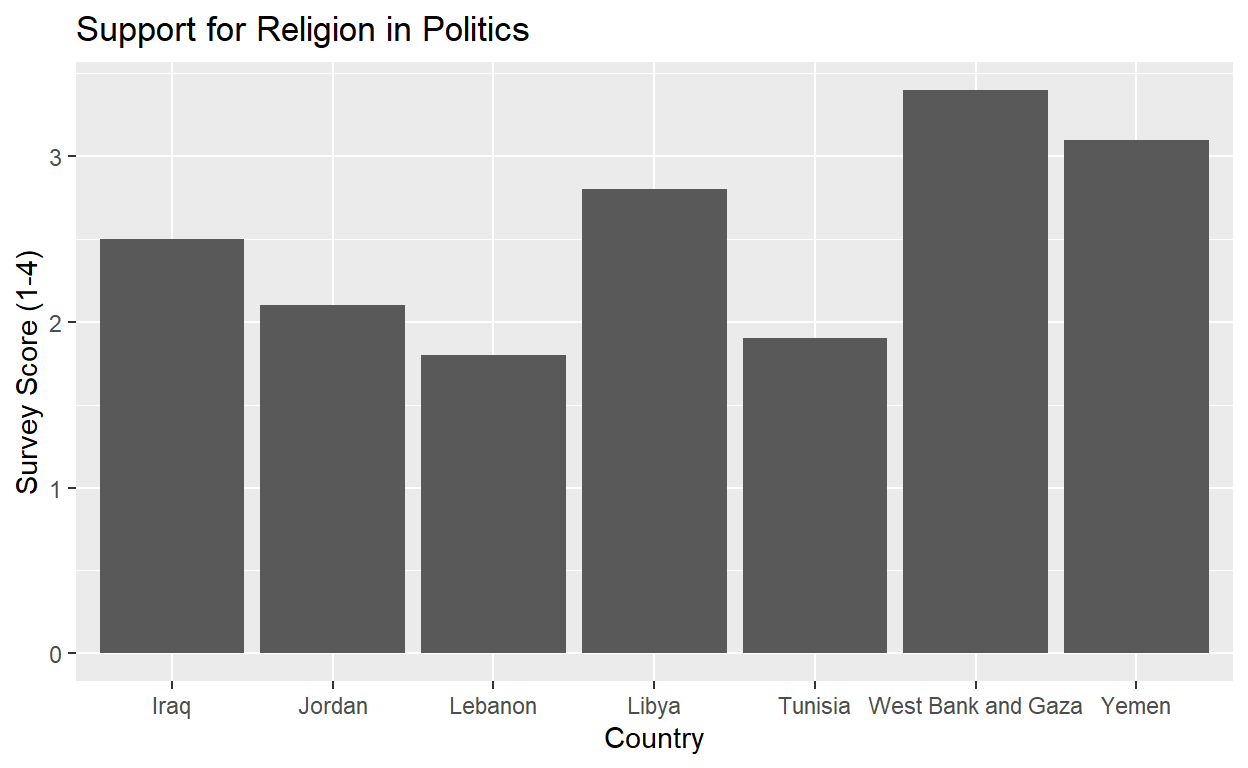
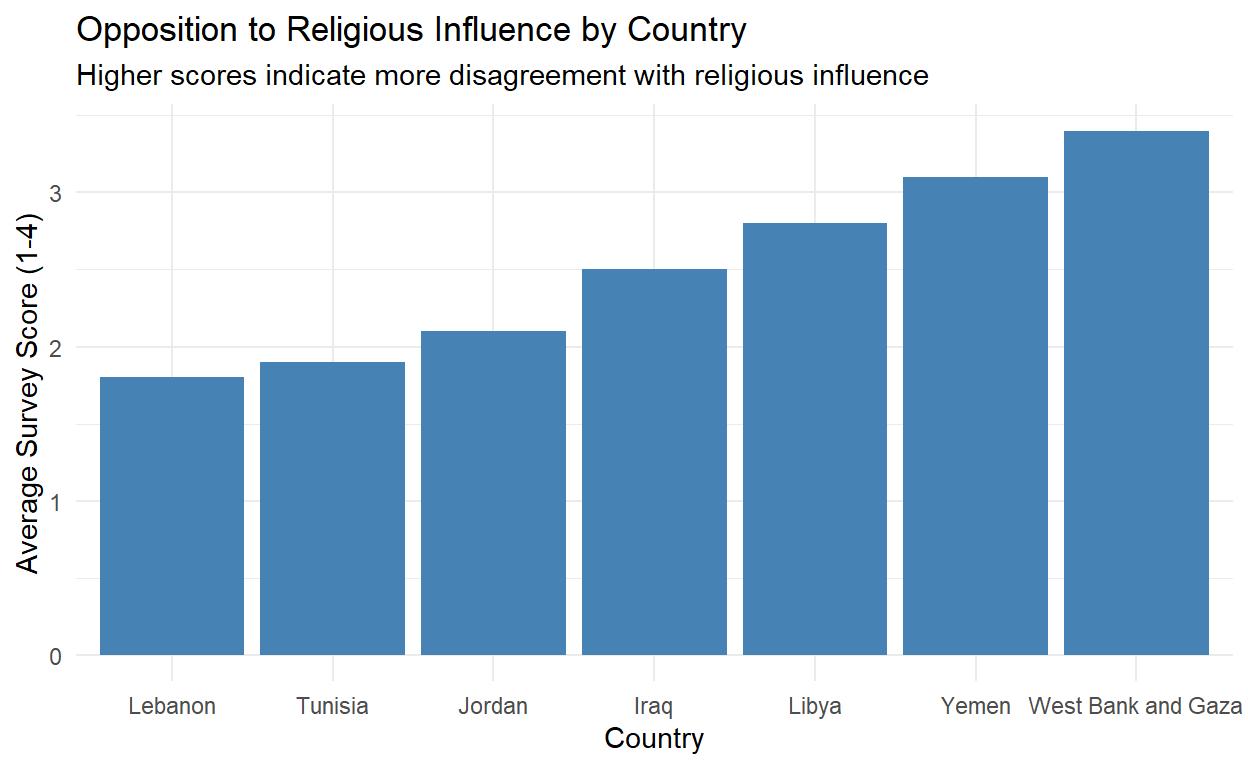
Final Project Update

diff --git a/index.html b/index.html
@@ -116,7 +116,7 @@ code span.wa { color: #5e5e5e; font-style: italic; } /* Warning */
   <!--/radix_placeholder_rmarkdown_metadata-->
   
   <script type="text/json" id="radix-resource-manifest">
-  {"type":"character","attributes":{},"value":["index_files/anchor-4.2.2/anchor.min.js","index_files/bowser-1.9.3/bowser.min.js","index_files/distill-2.2.21/template.v2.js","index_files/figure-html5/unnamed-chunk-6-1.png","index_files/figure-html5/unnamed-chunk-7-1.png","index_files/header-attrs-2.17/header-attrs.js","index_files/header-attrs-2.30/header-attrs.js","index_files/jquery-3.6.0/jquery-3.6.0.js","index_files/jquery-3.6.0/jquery-3.6.0.min.js","index_files/jquery-3.6.0/jquery-3.6.0.min.map","index_files/popper-2.6.0/popper.min.js","index_files/tippy-6.2.7/tippy-bundle.umd.min.js","index_files/tippy-6.2.7/tippy-light-border.css","index_files/tippy-6.2.7/tippy.css","index_files/tippy-6.2.7/tippy.umd.min.js","index_files/webcomponents-2.0.0/webcomponents.js"]}
+  {"type":"character","attributes":{},"value":["index_files/anchor-4.2.2/anchor.min.js","index_files/bowser-1.9.3/bowser.min.js","index_files/distill-2.2.21/template.v2.js","index_files/figure-html5/unnamed-chunk-6-1.png","index_files/figure-html5/unnamed-chunk-7-1.png","index_files/figure-html5/unnamed-chunk-8-1.png","index_files/header-attrs-2.17/header-attrs.js","index_files/header-attrs-2.30/header-attrs.js","index_files/jquery-3.6.0/jquery-3.6.0.js","index_files/jquery-3.6.0/jquery-3.6.0.min.js","index_files/jquery-3.6.0/jquery-3.6.0.min.map","index_files/popper-2.6.0/popper.min.js","index_files/tippy-6.2.7/tippy-bundle.umd.min.js","index_files/tippy-6.2.7/tippy-light-border.css","index_files/tippy-6.2.7/tippy.css","index_files/tippy-6.2.7/tippy.umd.min.js","index_files/webcomponents-2.0.0/webcomponents.js"]}
   </script>
   <!--radix_placeholder_navigation_in_header-->
   <!--/radix_placeholder_navigation_in_header-->
@@ -1544,14 +1544,12 @@ code span.wa { color: #5e5e5e; font-style: italic; } /* Warning */
 </div>
 
 <div class="d-article">
-<h2 id="project-thoughts">Project thoughts</h2>
-<p>Research Question: Does active conflict in the Middle East and Northern Africa increase the public’s desire for a more conservative and religiously influenced government, or a more liberal government with less religious involvement?</p>
-<p>Hypothesis: I believe that individuals living in countries with higher levels of conflict will desire a more conservative government. I believe that they will want a strong executive command, as well as a larger role for religion in the system. There is the belief that when people are faced with conflict, they tend to prioritize social order and stability over certain liberties. In addition, when faced with conflict, conservatism and traditional authority are often viewed as the most effective ways of government.</p>
-<p>Variables:
-Independent Variable: The independent variable will be conflict intensity. This will be measured by the total fatalities per country recorded in the ACLED dataset for 2023-2024. This will provide the necessary variation between stable countries versus high-conflict countries.
-Dependent variable: The dependent variable will be the desire for a certain political ideology. I will measure this using the Arab Barometer Wave VIII dataset. I will use different variables to determine if there is a relationship between religious and authoritarian conservatism.</p>
-<p>Expected Patterns: I think that there will be a specific positive correlation. However, my hypothesis would be disproved if the data shows no relationship or a negative correlation. For example, if people in war-torn regions want a more liberal government than my hypothesis could be disproven.</p>
-<p>Code for milestone 3</p>
+<h3 id="introduction">Introduction</h3>
+<p>Throughout history, there has always been a plethora of conflict in the Middle East. In recent times, there are no exceptions. While I have followed recent activities closely, I have always wondered how these wars make the citizens think. So that’s how I came up with my research question: Does high-intensity conflict increase the public’s desire for religiously influenced government, or does it push them toward more secular, liberal governance? I originally thought that high-conflict zones would lead their citizens to desire a more religious and conservative influence in government. This is an important question because it helps society understand whether conflict leads to more religious conservatism in government.</p>
+<h3 id="data-section">Data Section</h3>
+<p>This project uses a cross-sectional research design to analyze the relationship between conflict and political preferences across seven different countries in the Middle East and North African region (MENA). I merged the data from two primary sources: the Armed Conflict Location &amp; Event Data Project (ACLED) and the Arab Barometer (Wave VIII) for public opinion data.</p>
+<p>The independent variable in my project is conflict intensity. This is measured by the total fatalities per country recorded in the ACLED dataset. The total fatalities will provide the necessary variation to compare stable countries versus countries that are in high-conflict environments. The dependent variable in my project is the political ideology. This measures public opinion towards the role of religion of government. I want to say that most countries where there is a high level of religion in government tend to be more conservative. The data was measured in a public opinion survey, and taken on a scale of one to four. One is “Strongly Agree” for religion in government, and four is “Strongly Disagree”.</p>
+<p>I believe that there will be a positive correlation between conflict and a desire for a more conservative and religiously influenced government. However, due to the way that the survey was conducted, my hypothesis will be proven if there is a negative correlation. A negative correlation will be if a higher number of fatalities leads to a lower survey score.</p>
 <div class="layout-chunk" data-layout="l-body">
 <div class="sourceCode">
 <pre class="sourceCode r"><code class="sourceCode r"><span><span class='kw'><a href='https://rdrr.io/r/base/library.html'>library</a></span><span class='op'>(</span><span class='va'><a href='https://tidyverse.tidyverse.org'>tidyverse</a></span><span class='op'>)</span></span></code></pre>
@@ -1641,66 +1639,73 @@ Dependent variable: The dependent variable will be the desire for a certain poli
 <div class="layout-chunk" data-layout="l-body">
 <div class="sourceCode">
 <pre class="sourceCode r"><code class="sourceCode r"><span><span class='kw'><a href='https://rdrr.io/r/base/library.html'>library</a></span><span class='op'>(</span><span class='va'><a href='https://yihui.org/knitr/'>knitr</a></span><span class='op'>)</span></span>
-<span></span>
-<span></span>
-<span><span class='fu'><a href='https://ggplot2.tidyverse.org/reference/ggplot.html'>ggplot</a></span><span class='op'>(</span><span class='va'>merged_data</span>, <span class='fu'><a href='https://ggplot2.tidyverse.org/reference/aes.html'>aes</a></span><span class='op'>(</span>x <span class='op'>=</span> <span class='va'>country</span>, y <span class='op'>=</span> <span class='va'>original_score</span><span class='op'>)</span><span class='op'>)</span> <span class='op'>+</span></span>
-<span>  <span class='fu'><a href='https://ggplot2.tidyverse.org/reference/geom_bar.html'>geom_col</a></span><span class='op'>(</span><span class='op'>)</span> <span class='op'>+</span></span>
+<span><span class='fu'><a href='https://ggplot2.tidyverse.org/reference/ggplot.html'>ggplot</a></span><span class='op'>(</span><span class='va'>merged_data</span>, <span class='fu'><a href='https://ggplot2.tidyverse.org/reference/aes.html'>aes</a></span><span class='op'>(</span>x <span class='op'>=</span> <span class='fu'><a href='https://rdrr.io/r/stats/reorder.factor.html'>reorder</a></span><span class='op'>(</span><span class='va'>country</span>, <span class='va'>original_score</span><span class='op'>)</span>, y <span class='op'>=</span> <span class='va'>original_score</span><span class='op'>)</span><span class='op'>)</span> <span class='op'>+</span></span>
+<span>  <span class='fu'><a href='https://ggplot2.tidyverse.org/reference/geom_bar.html'>geom_col</a></span><span class='op'>(</span>fill <span class='op'>=</span> <span class='st'>"steelblue"</span><span class='op'>)</span> <span class='op'>+</span></span>
+<span>  <span class='fu'><a href='https://ggplot2.tidyverse.org/reference/ggtheme.html'>theme_minimal</a></span><span class='op'>(</span><span class='op'>)</span> <span class='op'>+</span></span>
 <span>  <span class='fu'><a href='https://ggplot2.tidyverse.org/reference/labs.html'>labs</a></span><span class='op'>(</span></span>
-<span>    title <span class='op'>=</span> <span class='st'>"Support for Religion in Politics"</span>,</span>
+<span>    title <span class='op'>=</span> <span class='st'>"Opposition to Religious Influence by Country"</span>,</span>
+<span>    subtitle <span class='op'>=</span> <span class='st'>"Higher scores indicate more disagreement with religious influence"</span>,</span>
 <span>    x <span class='op'>=</span> <span class='st'>"Country"</span>,</span>
-<span>    y <span class='op'>=</span> <span class='st'>"Survey Score (1-4)"</span></span>
+<span>    y <span class='op'>=</span> <span class='st'>"Average Survey Score (1-4)"</span></span>
 <span>  <span class='op'>)</span></span></code></pre>
 </div>
-<img src="index_files/figure-html5/unnamed-chunk-7-1.png" alt="" width="624" />
+<p><img src="index_files/figure-html5/unnamed-chunk-7-1.png" alt="" width="624" /></p>
+</div>
+<h3 id="results">Results</h3>
+<div class="layout-chunk" data-layout="l-body">
 <div class="sourceCode">
-<pre class="sourceCode r"><code class="sourceCode r"><span><span class='fu'><a href='https://rdrr.io/pkg/knitr/man/kable.html'>kable</a></span><span class='op'>(</span><span class='va'>merged_data</span><span class='op'>)</span></span></code></pre>
+<pre class="sourceCode r"><code class="sourceCode r"><span><span class='kw'><a href='https://rdrr.io/r/base/library.html'>library</a></span><span class='op'>(</span><span class='va'><a href='https://broom.tidymodels.org/'>broom</a></span><span class='op'>)</span></span>
+<span></span>
+<span><span class='va'>model1</span> <span class='op'>&lt;-</span> <span class='fu'><a href='https://rdrr.io/r/stats/lm.html'>lm</a></span><span class='op'>(</span><span class='va'>original_score</span> <span class='op'>~</span> <span class='va'>fatalities</span>, data <span class='op'>=</span> <span class='va'>merged_data</span><span class='op'>)</span></span>
+<span></span>
+<span><span class='va'>model_results</span> <span class='op'>&lt;-</span> <span class='fu'><a href='https://generics.r-lib.org/reference/tidy.html'>tidy</a></span><span class='op'>(</span><span class='va'>model1</span><span class='op'>)</span></span>
+<span></span>
+<span><span class='fu'><a href='https://rdrr.io/pkg/knitr/man/kable.html'>kable</a></span><span class='op'>(</span><span class='va'>model_results</span>, </span>
+<span>      digits <span class='op'>=</span> <span class='fl'>3</span>, </span>
+<span>      caption <span class='op'>=</span> <span class='st'>"Table 1: Regression Analysis of Conflict on Political Views"</span>,</span>
+<span>      col.names <span class='op'>=</span> <span class='fu'><a href='https://rdrr.io/r/base/c.html'>c</a></span><span class='op'>(</span><span class='st'>"Term"</span>, <span class='st'>"Estimate"</span>, <span class='st'>"Std. Error"</span>, <span class='st'>"Statistic"</span>, <span class='st'>"P-Value"</span><span class='op'>)</span><span class='op'>)</span></span></code></pre>
 </div>
 <table>
+<caption><span id="tab:unnamed-chunk-8">Table 1: </span>Table 1: Regression Analysis of Conflict on Political Views</caption>
 <thead>
 <tr class="header">
-<th style="text-align: left;">country</th>
-<th style="text-align: right;">fatalities</th>
-<th style="text-align: right;">original_score</th>
+<th style="text-align: left;">Term</th>
+<th style="text-align: right;">Estimate</th>
+<th style="text-align: right;">Std. Error</th>
+<th style="text-align: right;">Statistic</th>
+<th style="text-align: right;">P-Value</th>
 </tr>
 </thead>
 <tbody>
 <tr class="odd">
-<td style="text-align: left;">Jordan</td>
-<td style="text-align: right;">5</td>
-<td style="text-align: right;">2.1</td>
+<td style="text-align: left;">(Intercept)</td>
+<td style="text-align: right;">2.347</td>
+<td style="text-align: right;">0.209</td>
+<td style="text-align: right;">11.247</td>
+<td style="text-align: right;">0.000</td>
 </tr>
 <tr class="even">
-<td style="text-align: left;">Lebanon</td>
-<td style="text-align: right;">120</td>
-<td style="text-align: right;">1.8</td>
-</tr>
-<tr class="odd">
-<td style="text-align: left;">West Bank and Gaza</td>
-<td style="text-align: right;">30000</td>
-<td style="text-align: right;">3.4</td>
-</tr>
-<tr class="even">
-<td style="text-align: left;">Yemen</td>
-<td style="text-align: right;">1500</td>
-<td style="text-align: right;">3.1</td>
-</tr>
-<tr class="odd">
-<td style="text-align: left;">Iraq</td>
-<td style="text-align: right;">400</td>
-<td style="text-align: right;">2.5</td>
-</tr>
-<tr class="even">
-<td style="text-align: left;">Libya</td>
-<td style="text-align: right;">150</td>
-<td style="text-align: right;">2.8</td>
-</tr>
-<tr class="odd">
-<td style="text-align: left;">Tunisia</td>
-<td style="text-align: right;">20</td>
-<td style="text-align: right;">1.9</td>
+<td style="text-align: left;">fatalities</td>
+<td style="text-align: right;">0.000</td>
+<td style="text-align: right;">0.000</td>
+<td style="text-align: right;">1.975</td>
+<td style="text-align: right;">0.105</td>
 </tr>
 </tbody>
 </table>
+<div class="sourceCode">
+<pre class="sourceCode r"><code class="sourceCode r"><span><span class='fu'><a href='https://ggplot2.tidyverse.org/reference/ggplot.html'>ggplot</a></span><span class='op'>(</span><span class='va'>merged_data</span>, <span class='fu'><a href='https://ggplot2.tidyverse.org/reference/aes.html'>aes</a></span><span class='op'>(</span>x <span class='op'>=</span> <span class='va'>fatalities</span>, y <span class='op'>=</span> <span class='va'>original_score</span><span class='op'>)</span><span class='op'>)</span> <span class='op'>+</span></span>
+<span>  <span class='fu'><a href='https://ggplot2.tidyverse.org/reference/geom_point.html'>geom_point</a></span><span class='op'>(</span>size <span class='op'>=</span> <span class='fl'>3</span>, color <span class='op'>=</span> <span class='st'>"white"</span><span class='op'>)</span> <span class='op'>+</span></span>
+<span>  <span class='fu'><a href='https://ggplot2.tidyverse.org/reference/geom_smooth.html'>geom_smooth</a></span><span class='op'>(</span>method <span class='op'>=</span> <span class='st'>"lm"</span>, color <span class='op'>=</span> <span class='st'>"green"</span>, se <span class='op'>=</span> <span class='cn'>FALSE</span><span class='op'>)</span> <span class='op'>+</span></span>
+<span>  <span class='fu'><a href='https://ggplot2.tidyverse.org/reference/ggtheme.html'>theme_minimal</a></span><span class='op'>(</span><span class='op'>)</span> <span class='op'>+</span></span>
+<span>  <span class='fu'><a href='https://ggplot2.tidyverse.org/reference/labs.html'>labs</a></span><span class='op'>(</span></span>
+<span>    title <span class='op'>=</span> <span class='st'>"Conflict Intensity vs. Religious Support"</span>,</span>
+<span>    subtitle <span class='op'>=</span> <span class='st'>"Red line represents the OLS regression trend"</span>,</span>
+<span>    x <span class='op'>=</span> <span class='st'>"Total Fatalities (ACLED)"</span>,</span>
+<span>    y <span class='op'>=</span> <span class='st'>"Survey Score (1=Agree, 4=Disagree)"</span></span>
+<span>  <span class='op'>)</span></span></code></pre>
+</div>
+<p><img src="index_files/figure-html5/unnamed-chunk-8-1.png" alt="" width="624" /></p>
 </div>
 <p>In the data set that I used, the survey asked the question of “To what extent do you agree or disagree with the following statement: Religious leaders should have influence over the decisions of government”. The answer would then be given on a scale from 1-4. 1 was strongly agree, and 4 was strongly disagree. Originally, I thought that areas where there was more conflict would want a more conservative and more religiously influenced government. But as I have noticed from my early research, this seems to be the opposite. In my second visualization, the table shows that the more casualties a country has, the more they disagree with having religion involved in government. Gaza and the West Bank, who has the highest casualties, also has the strongest disagreement rating from the survey. This sticks out to me because Hamas, a terrorist organization built on the foundation of religion, is currently managing that area. As I move forward in my research process, I look forward to diving into this further and looking at more data in order to see if this holds up.</p>
 <div class="sourceCode" id="cb5"><pre class="sourceCode r distill-force-highlighting-css"><code class="sourceCode r"></code></pre></div>
